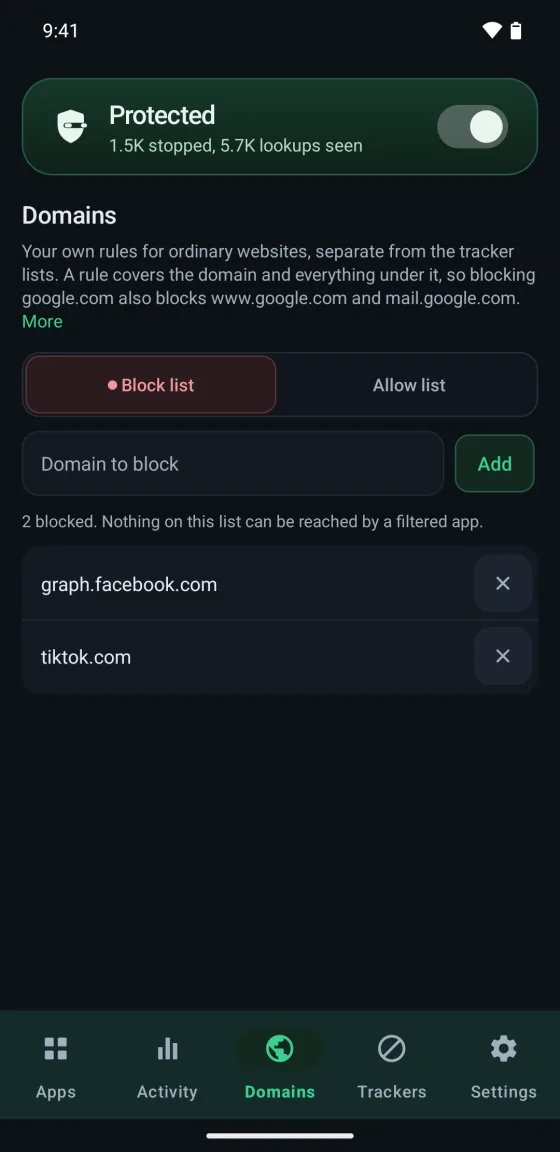
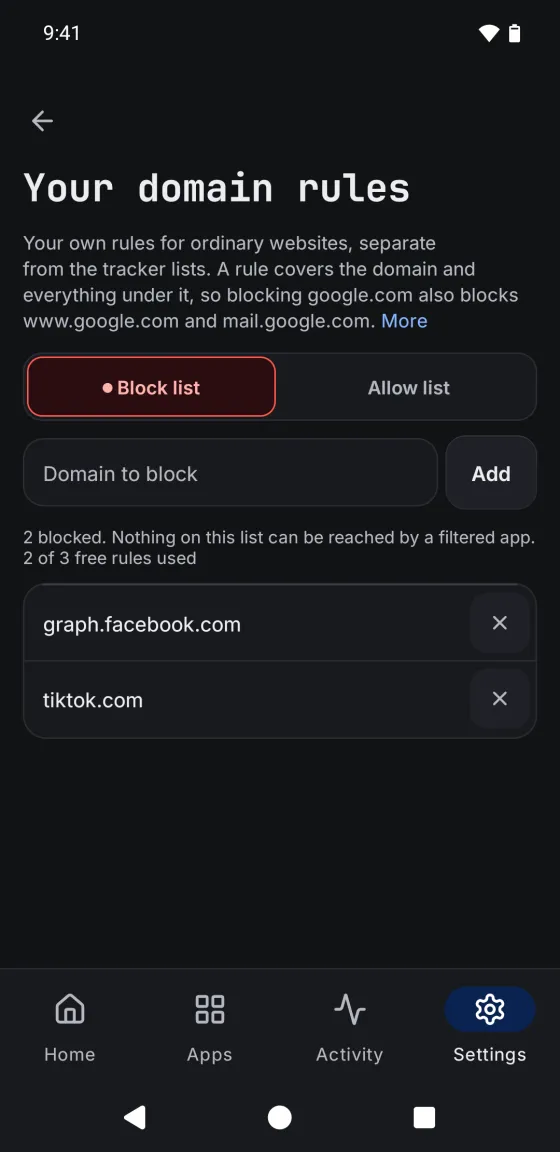
Guide for 1.32: Settings is the last button in the bar and holds the rest
Domains and Trackers are no longer tabs: they are Your domain rules and
Tracker lists in Settings, under Protection. Privacy and Help and feedback
are own pages, Bypass is called Not filtered, and the screens are retaken.

diff --git a/docs/guide.html b/docs/guide.html
@@ -26,21 +26,22 @@
     <article>
     <h2>What it does</h2>
     <p>Firewall runs a local VPN, but it does not carry your traffic. The tunnel claims one small, reserved range of addresses, and what comes through it is every name your phone looks up. A name that is blocked is answered with an address that goes nowhere, and the connection that follows is refused on the spot. A name that is allowed is resolved for real, encrypted if you asked for that. Your photos, video and downloads never enter the app, so nothing is slowed down and nothing keeps the processor awake.</p>
-    <p>Turn it on with the switch in the green card at the top. The first time, Android asks you to allow the VPN, and then whether Firewall may send notifications. On a new install every app starts Filtered, with tracker blocking and encrypted lookups on, so apps work as before with trackers stopped.</p>
+    <p>Turn it on with the switch in the card at the top of Home. The first time, Android asks you to allow the VPN, and then whether Firewall may send notifications. On a new install every app starts Filtered, with tracker blocking and encrypted lookups on, so apps work as before with trackers stopped.</p>
+    <p>The bar at the bottom has four buttons: Home, Apps, Activity and Settings. Back from any of them goes to Home first.</p>
     <h2>Apps: three modes</h2>
     <dl>
       <dt>Filtered</dt><dd>The app works and trackers are stopped. Its lookups go through the firewall, so encryption, tracker blocking and your domain rules all apply. New apps start here, unless you choose Blocked in Settings under New apps.</dd>
-      <dt>Bypass</dt><dd>The firewall leaves the app alone. Untouched, unfiltered, costs nothing. Use it for an app that has trouble.</dd>
+      <dt>Not filtered</dt><dd>The firewall leaves the app alone. Untouched, costs nothing. Use it for an app that has trouble.</dd>
       <dt>Blocked</dt><dd>The app cannot go online. When it tries, you get a notice with an Allow button, at most once every 12 hours for each app. Turn the notice off in Settings under New apps.</dd>
     </dl>
     <p>Changes take effect at once, but an app that is already running can hold on to what it opened earlier, so close and reopen it. Change all sets every app in the list you are looking at, and Undo puts each one back. Apps that went online lately are at the top. Tap an app's row for its own page: what it looked up, which tracker companies it reached, and whether they got through.</p>
-    <h2>Domains: your own rules</h2>
-    <p>A block list and an allow list for ordinary websites, separate from the tracker lists. A rule covers the domain and everything under it, so blocking google.com also blocks www.google.com and mail.google.com. The more specific rule wins, so you can block a domain and allow one name inside it. Rules apply at once, for every app set to Filtered.</p>
+    <h2>Your domain rules</h2>
+    <p>In Settings, under Protection. A block list and an allow list for ordinary websites, separate from the tracker lists. A rule covers the domain and everything under it, so blocking google.com also blocks www.google.com and mail.google.com. The more specific rule wins, so you can block a domain and allow one name inside it. Rules apply at once, for every app set to Filtered.</p>
     <p>Free: 3 rules, block and allow together. Pro: as many as you like, and wildcards. A star anywhere else, like <code>ads.*</code> or <code>*tracker*</code>, matches any text in its place.</p>
-    <h2>Trackers</h2>
-    <p>Every lookup is checked against known tracker, ad and fingerprinting domains. The bundled list works out of the box. With Pro you can add the community lists (HaGeZi, OISD, 1Hosts, Steven Black, AdGuard), refresh them, or add your own list by its https link: a hosts file, a plain list of domains, or an adblock style list. Lists are downloaded once and kept on the phone; the tab shows how many names they hold and the memory they take. Anything a list gets wrong can be undone on the Domains tab with an allow rule.</p>
+    <h2>Tracker lists</h2>
+    <p>In Settings, under Protection. Every lookup is checked against known tracker, ad and fingerprinting domains. The bundled list works out of the box. With Pro you can add the community lists (HaGeZi, OISD, 1Hosts, Steven Black, AdGuard), refresh them, or add your own list by its https link: a hosts file, a plain list of domains, or an adblock style list. Lists are downloaded once and kept on the phone; the page shows how many names they hold and the memory they take. Anything a list gets wrong can be undone with an allow rule in Your domain rules.</p>
     <h2>Encrypted lookups (DNS over HTTPS)</h2>
-    <p>Plain DNS shows your network every site you open. DNS over HTTPS encrypts the lookups. Google is free. With Pro you can pick Cloudflare, Quad9 or AdGuard, or type the address of any provider; Firewall tries a real lookup before it saves it. If the provider cannot be reached, Firewall falls back to the network's own resolver rather than leaving you with no answer.</p>
+    <p>In Settings, under Protection. Plain DNS shows your network every site you open. DNS over HTTPS encrypts the lookups. Google is free. With Pro you can pick Cloudflare, Quad9 or AdGuard, or type the address of any provider; Firewall tries a real lookup before it saves it. If the provider cannot be reached, Firewall falls back to the network's own resolver rather than leaving you with no answer.</p>
     <h2>Activity</h2>
     <p>Lookups seen, how many were stopped, what share were encrypted, and what did the stopping: a tracker list, your own rules, or a blocked app. The chart of the last 24 hours, the names blocked most often, and the full log, searchable, with the app behind every entry. Tap an entry to block that domain, or to always allow it. When the app itself was blocked, the entry offers to allow the app.</p>
     <p>Pro adds the chart of the last 7 days (30 days when you keep a longer history), your busiest hours of the day, the apps that look up the most, the tracker companies behind them, and Export CSV.</p>
@@ -49,20 +50,23 @@
       <dt>New apps</dt><dd>Tells you when a newly installed app goes online, so you can allow or block it from the notification. With App Lock on, the notification only opens the app.</dd>
       <dt>New tracker companies</dt><dd>Tells you when an app reaches a tracker company it never reached before. An app the firewall has not seen before gets a day to show its usual companies quietly.</dd>
     </dl>
-    <p>Turn them on in Settings, under Alerts.</p>
+    <p>Turn them on in Settings, under Alerts and weekly summary.</p>
     <h2>Daily mobile data cap (Pro)</h2>
-    <p>Open an app's page from the Apps tab and tap Daily mobile data cap. When the app has used that much mobile data today, its new connections are stopped on mobile data until midnight. Wi-Fi still works. Android counts the data, so Firewall needs Usage access; the app takes you to that screen. Caps need Android 10 or newer, and a cap cannot stop an app set to Bypass.</p>
+    <p>Open an app's page from the Apps tab and tap Daily mobile data cap. When the app has used that much mobile data today, its new connections are stopped on mobile data until midnight. Wi-Fi still works. Android counts the data, so Firewall needs Usage access; the app takes you to that screen. Caps need Android 10 or newer, and a cap cannot stop an app set to Not filtered.</p>
     <h2>History</h2>
     <p>The log is kept on your phone for 7 days. With Pro you can keep 30 or 90 days, in Settings under History. Longer history uses more storage.</p>
     <h2>Settings</h2>
+    <p>Settings is the last button in the bar. It lists the pages below in groups: Look, Protection (Encrypted lookups, Tracker lists, Your domain rules, New apps), Lock, alerts and backup, Pro, and App (Privacy, Help and feedback), then Support the developer and About.</p>
     <dl>
       <dt>Look</dt><dd>Follow the phone, Light, Dark or Black. Black uses true black grounds, which save power on OLED screens.</dd>
       <dt>New apps</dt><dd>Whether a newly installed app starts Filtered or Blocked, and whether a blocked app that tries to go online brings a notice with Allow.</dd>
       <dt>App Lock</dt><dd>A passcode before the app opens, so your rules cannot be changed by someone holding your phone. Letters, digits and symbols are all allowed.</dd>
       <dt>Weekly summary (Pro)</dt><dd>Once a week, a notification with what the firewall stopped and which tracker companies your apps went for.</dd>
       <dt>Backup and restore</dt><dd>Saves how each app is handled, your domain rules, which tracker lists you downloaded, and your tracker and encryption settings, as plain JSON. Your passcode, your activity and your counters are never included. Restore here or on another phone.</dd>
-      <dt>Privacy</dt><dd>Firewall's promises (no ads, no tracking, no analytics, no account, no AI), then every permission it asks for and why. Location, contacts, camera and microphone are never asked for.</dd>
-      <dt>Help</dt><dd>Links to this guide, the bug and feature form, and the privacy policy.</dd>
+      <dt>Privacy</dt><dd>Its own page. Firewall's promises (no ads, no tracking, no analytics, no account, no AI), then every permission it asks for and why. Location, contacts, camera and microphone are never asked for.</dd>
+      <dt>Help and feedback</dt><dd>Its own page, with links to this guide and to the form to report a bug or ask for a feature.</dd>
+      <dt>Support the developer</dt><dd>If Firewall helps you, you can support it: Buy me a coffee opens the page in your browser.</dd>
+      <dt>About</dt><dd>The version you have, and that Firewall has no server of its own.</dd>
     </dl>
     <h2>Always on</h2>
     <p>Firewall starts again after a reboot and after an app update. The Quick Settings tile switches it from the notification shade, and respects App Lock. The Firewall status widget shows whether protection is on and what was stopped today.</p>

diff --git a/docs/index.html b/docs/index.html
@@ -25,10 +25,11 @@
     <h1>Firewall</h1>
     <p class="sub">A firewall for Android that needs no root, with tracker blocking, DNS over HTTPS, and a log of everything your phone looks up. You decide, app by app, what the firewall does with it. Free, with an optional Pro.</p>
     <div class="shots">
-      <figure><img src="img/screen-apps.webp" alt="The app list with Demo Media set to Blocked and First Flow set to Filtered, each row offering Bypass, Filtered and Blocked." width="560" height="1152" loading="lazy"><figcaption>Apps: Bypass, Filtered or Blocked</figcaption></figure>
-      <figure><img src="img/screen-activity.webp" alt="5.7K lookups seen, 1.5K blocked, 98% encrypted, why lookups were stopped, and an hour by hour chart of the last day." width="560" height="1152" loading="lazy"><figcaption>Activity</figcaption></figure>
-      <figure><img src="img/screen-domains.webp" alt="A block list holding graph.facebook.com and tiktok.com." width="560" height="1152" loading="lazy"><figcaption>Domains: your own rules</figcaption></figure>
-      <figure><img src="img/screen-trackers.webp" alt="Tracker blocking on with 224,225 names loaded, DNS over HTTPS through AdGuard, and the memory the lists take." width="560" height="1152" loading="lazy"><figcaption>Trackers and encryption</figcaption></figure>
+      <figure><img src="img/screen-apps.webp" alt="The app list with lookups per app: Chrome, Calendar and Phosphor Filtered, Vinyl Blocked, and the bar at the bottom ending in Settings." width="560" height="1152" loading="lazy"><figcaption>Apps: Not filtered, Filtered or Blocked</figcaption></figure>
+      <figure><img src="img/screen-activity.webp" alt="3.7K lookups, 1.0K blocked, 98% encrypted, and why lookups were stopped: tracker lists, your rules and blocked apps." width="560" height="1152" loading="lazy"><figcaption>Activity</figcaption></figure>
+      <figure><img src="img/screen-settings.webp" alt="Settings: Look, then Protection with Encrypted lookups, Tracker lists, Your domain rules and New apps." width="560" height="1152" loading="lazy"><figcaption>Settings</figcaption></figure>
+      <figure><img src="img/screen-domains.webp" alt="Your domain rules: a block list holding graph.facebook.com and tiktok.com, 2 of 3 free rules used." width="560" height="1152" loading="lazy"><figcaption>Your domain rules</figcaption></figure>
+      <figure><img src="img/screen-trackers.webp" alt="Tracker lists: tracker blocking on with 129 names loaded, 848 blocked, and the memory the lists take." width="560" height="1152" loading="lazy"><figcaption>Tracker lists</figcaption></figure>
     </div>
     <div class="cta">
       <a class="btn main" href="guide.html">Read the guide</a>

diff --git a/docs/faq.html b/docs/faq.html
@@ -25,7 +25,7 @@
     <h1>Questions and fixes</h1>
     <article>
     <h2>An app or a site stopped working</h2>
-    <p>Open Activity and look for its lookups marked as stopped. If the app itself is blocked, tap the entry and pick Allow, or tap Allow on the notice. Otherwise pick always allow for that name, or set the app to Filtered or Bypass on the Apps tab. If a tracker list blocked a name the app needs, an allow rule on the Domains tab undoes it.</p>
+    <p>Open Activity and look for its lookups marked as stopped. If the app itself is blocked, tap the entry and pick Allow, or tap Allow on the notice. Otherwise pick always allow for that name, or set the app to Filtered or Not filtered on the Apps tab. If a tracker list blocked a name the app needs, an allow rule in Settings, Your domain rules undoes it.</p>
     <h2>I blocked an app, but it still works</h2>
     <p>Close it and open it again: an app that was already running can hold on to what it opened earlier. An app that connects straight to an address, without looking up a name, cannot be stopped by a firewall that works on names.</p>
     <h2>It says Private DNS is in the way</h2>

diff --git a/docs/report.html b/docs/report.html
@@ -37,9 +37,9 @@
     </ul>
     <h2>What helps</h2>
     <dl>
-      <dt>App version</dt><dd>Firewall, Settings, at the bottom.</dd>
+      <dt>App version</dt><dd>Firewall, Settings, About, at the bottom.</dd>
       <dt>Phone model and Android version</dt><dd>Android settings, About phone.</dd>
-      <dt>Which screen</dt><dd>Apps, Activity, Domains, Trackers, Settings, an app's page, the tile, the widget or a notification.</dd>
+      <dt>Which screen</dt><dd>Home, Apps, Activity, a Settings page such as Tracker lists or Your domain rules, an app's page, the tile, the widget or a notification.</dd>
       <dt>The app and the domain</dt><dd>Which app misbehaves and, from Activity, the name it looked up.</dd>
       <dt>Steps</dt><dd>What you did, one step per line.</dd>
     </dl>

diff --git a/build.py b/build.py
@@ -53,10 +53,11 @@ INDEX = f'''    <p class="kicker">User guide</p>
     <h1>Firewall</h1>
     <p class="sub">A firewall for Android that needs no root, with tracker blocking, DNS over HTTPS, and a log of everything your phone looks up. You decide, app by app, what the firewall does with it. Free, with an optional Pro.</p>
     <div class="shots">
-      {shot("apps", "The app list with Demo Media set to Blocked and First Flow set to Filtered, each row offering Bypass, Filtered and Blocked.", "Apps: Bypass, Filtered or Blocked")}
-      {shot("activity", "5.7K lookups seen, 1.5K blocked, 98% encrypted, why lookups were stopped, and an hour by hour chart of the last day.", "Activity")}
-      {shot("domains", "A block list holding graph.facebook.com and tiktok.com.", "Domains: your own rules")}
-      {shot("trackers", "Tracker blocking on with 224,225 names loaded, DNS over HTTPS through AdGuard, and the memory the lists take.", "Trackers and encryption")}
+      {shot("apps", "The app list with lookups per app: Chrome, Calendar and Phosphor Filtered, Vinyl Blocked, and the bar at the bottom ending in Settings.", "Apps: Not filtered, Filtered or Blocked")}
+      {shot("activity", "3.7K lookups, 1.0K blocked, 98% encrypted, and why lookups were stopped: tracker lists, your rules and blocked apps.", "Activity")}
+      {shot("settings", "Settings: Look, then Protection with Encrypted lookups, Tracker lists, Your domain rules and New apps.", "Settings")}
+      {shot("domains", "Your domain rules: a block list holding graph.facebook.com and tiktok.com, 2 of 3 free rules used.", "Your domain rules")}
+      {shot("trackers", "Tracker lists: tracker blocking on with 129 names loaded, 848 blocked, and the memory the lists take.", "Tracker lists")}
     </div>
     <div class="cta">
       <a class="btn main" href="guide.html">Read the guide</a>
@@ -68,21 +69,22 @@ GUIDE = '''    <p class="kicker">Guide</p>
     <article>
     <h2>What it does</h2>
     <p>Firewall runs a local VPN, but it does not carry your traffic. The tunnel claims one small, reserved range of addresses, and what comes through it is every name your phone looks up. A name that is blocked is answered with an address that goes nowhere, and the connection that follows is refused on the spot. A name that is allowed is resolved for real, encrypted if you asked for that. Your photos, video and downloads never enter the app, so nothing is slowed down and nothing keeps the processor awake.</p>
-    <p>Turn it on with the switch in the green card at the top. The first time, Android asks you to allow the VPN, and then whether Firewall may send notifications. On a new install every app starts Filtered, with tracker blocking and encrypted lookups on, so apps work as before with trackers stopped.</p>
+    <p>Turn it on with the switch in the card at the top of Home. The first time, Android asks you to allow the VPN, and then whether Firewall may send notifications. On a new install every app starts Filtered, with tracker blocking and encrypted lookups on, so apps work as before with trackers stopped.</p>
+    <p>The bar at the bottom has four buttons: Home, Apps, Activity and Settings. Back from any of them goes to Home first.</p>
     <h2>Apps: three modes</h2>
     <dl>
       <dt>Filtered</dt><dd>The app works and trackers are stopped. Its lookups go through the firewall, so encryption, tracker blocking and your domain rules all apply. New apps start here, unless you choose Blocked in Settings under New apps.</dd>
-      <dt>Bypass</dt><dd>The firewall leaves the app alone. Untouched, unfiltered, costs nothing. Use it for an app that has trouble.</dd>
+      <dt>Not filtered</dt><dd>The firewall leaves the app alone. Untouched, costs nothing. Use it for an app that has trouble.</dd>
       <dt>Blocked</dt><dd>The app cannot go online. When it tries, you get a notice with an Allow button, at most once every 12 hours for each app. Turn the notice off in Settings under New apps.</dd>
     </dl>
     <p>Changes take effect at once, but an app that is already running can hold on to what it opened earlier, so close and reopen it. Change all sets every app in the list you are looking at, and Undo puts each one back. Apps that went online lately are at the top. Tap an app's row for its own page: what it looked up, which tracker companies it reached, and whether they got through.</p>
-    <h2>Domains: your own rules</h2>
-    <p>A block list and an allow list for ordinary websites, separate from the tracker lists. A rule covers the domain and everything under it, so blocking google.com also blocks www.google.com and mail.google.com. The more specific rule wins, so you can block a domain and allow one name inside it. Rules apply at once, for every app set to Filtered.</p>
+    <h2>Your domain rules</h2>
+    <p>In Settings, under Protection. A block list and an allow list for ordinary websites, separate from the tracker lists. A rule covers the domain and everything under it, so blocking google.com also blocks www.google.com and mail.google.com. The more specific rule wins, so you can block a domain and allow one name inside it. Rules apply at once, for every app set to Filtered.</p>
     <p>Free: 3 rules, block and allow together. Pro: as many as you like, and wildcards. A star anywhere else, like <code>ads.*</code> or <code>*tracker*</code>, matches any text in its place.</p>
-    <h2>Trackers</h2>
-    <p>Every lookup is checked against known tracker, ad and fingerprinting domains. The bundled list works out of the box. With Pro you can add the community lists (HaGeZi, OISD, 1Hosts, Steven Black, AdGuard), refresh them, or add your own list by its https link: a hosts file, a plain list of domains, or an adblock style list. Lists are downloaded once and kept on the phone; the tab shows how many names they hold and the memory they take. Anything a list gets wrong can be undone on the Domains tab with an allow rule.</p>
+    <h2>Tracker lists</h2>
+    <p>In Settings, under Protection. Every lookup is checked against known tracker, ad and fingerprinting domains. The bundled list works out of the box. With Pro you can add the community lists (HaGeZi, OISD, 1Hosts, Steven Black, AdGuard), refresh them, or add your own list by its https link: a hosts file, a plain list of domains, or an adblock style list. Lists are downloaded once and kept on the phone; the page shows how many names they hold and the memory they take. Anything a list gets wrong can be undone with an allow rule in Your domain rules.</p>
     <h2>Encrypted lookups (DNS over HTTPS)</h2>
-    <p>Plain DNS shows your network every site you open. DNS over HTTPS encrypts the lookups. Google is free. With Pro you can pick Cloudflare, Quad9 or AdGuard, or type the address of any provider; Firewall tries a real lookup before it saves it. If the provider cannot be reached, Firewall falls back to the network's own resolver rather than leaving you with no answer.</p>
+    <p>In Settings, under Protection. Plain DNS shows your network every site you open. DNS over HTTPS encrypts the lookups. Google is free. With Pro you can pick Cloudflare, Quad9 or AdGuard, or type the address of any provider; Firewall tries a real lookup before it saves it. If the provider cannot be reached, Firewall falls back to the network's own resolver rather than leaving you with no answer.</p>
     <h2>Activity</h2>
     <p>Lookups seen, how many were stopped, what share were encrypted, and what did the stopping: a tracker list, your own rules, or a blocked app. The chart of the last 24 hours, the names blocked most often, and the full log, searchable, with the app behind every entry. Tap an entry to block that domain, or to always allow it. When the app itself was blocked, the entry offers to allow the app.</p>
     <p>Pro adds the chart of the last 7 days (30 days when you keep a longer history), your busiest hours of the day, the apps that look up the most, the tracker companies behind them, and Export CSV.</p>
@@ -91,20 +93,23 @@ GUIDE = '''    <p class="kicker">Guide</p>
       <dt>New apps</dt><dd>Tells you when a newly installed app goes online, so you can allow or block it from the notification. With App Lock on, the notification only opens the app.</dd>
       <dt>New tracker companies</dt><dd>Tells you when an app reaches a tracker company it never reached before. An app the firewall has not seen before gets a day to show its usual companies quietly.</dd>
     </dl>
-    <p>Turn them on in Settings, under Alerts.</p>
+    <p>Turn them on in Settings, under Alerts and weekly summary.</p>
     <h2>Daily mobile data cap (Pro)</h2>
-    <p>Open an app's page from the Apps tab and tap Daily mobile data cap. When the app has used that much mobile data today, its new connections are stopped on mobile data until midnight. Wi-Fi still works. Android counts the data, so Firewall needs Usage access; the app takes you to that screen. Caps need Android 10 or newer, and a cap cannot stop an app set to Bypass.</p>
+    <p>Open an app's page from the Apps tab and tap Daily mobile data cap. When the app has used that much mobile data today, its new connections are stopped on mobile data until midnight. Wi-Fi still works. Android counts the data, so Firewall needs Usage access; the app takes you to that screen. Caps need Android 10 or newer, and a cap cannot stop an app set to Not filtered.</p>
     <h2>History</h2>
     <p>The log is kept on your phone for 7 days. With Pro you can keep 30 or 90 days, in Settings under History. Longer history uses more storage.</p>
     <h2>Settings</h2>
+    <p>Settings is the last button in the bar. It lists the pages below in groups: Look, Protection (Encrypted lookups, Tracker lists, Your domain rules, New apps), Lock, alerts and backup, Pro, and App (Privacy, Help and feedback), then Support the developer and About.</p>
     <dl>
       <dt>Look</dt><dd>Follow the phone, Light, Dark or Black. Black uses true black grounds, which save power on OLED screens.</dd>
       <dt>New apps</dt><dd>Whether a newly installed app starts Filtered or Blocked, and whether a blocked app that tries to go online brings a notice with Allow.</dd>
       <dt>App Lock</dt><dd>A passcode before the app opens, so your rules cannot be changed by someone holding your phone. Letters, digits and symbols are all allowed.</dd>
       <dt>Weekly summary (Pro)</dt><dd>Once a week, a notification with what the firewall stopped and which tracker companies your apps went for.</dd>
       <dt>Backup and restore</dt><dd>Saves how each app is handled, your domain rules, which tracker lists you downloaded, and your tracker and encryption settings, as plain JSON. Your passcode, your activity and your counters are never included. Restore here or on another phone.</dd>
-      <dt>Privacy</dt><dd>Firewall's promises (no ads, no tracking, no analytics, no account, no AI), then every permission it asks for and why. Location, contacts, camera and microphone are never asked for.</dd>
-      <dt>Help</dt><dd>Links to this guide, the bug and feature form, and the privacy policy.</dd>
+      <dt>Privacy</dt><dd>Its own page. Firewall's promises (no ads, no tracking, no analytics, no account, no AI), then every permission it asks for and why. Location, contacts, camera and microphone are never asked for.</dd>
+      <dt>Help and feedback</dt><dd>Its own page, with links to this guide and to the form to report a bug or ask for a feature.</dd>
+      <dt>Support the developer</dt><dd>If Firewall helps you, you can support it: Buy me a coffee opens the page in your browser.</dd>
+      <dt>About</dt><dd>The version you have, and that Firewall has no server of its own.</dd>
     </dl>
     <h2>Always on</h2>
     <p>Firewall starts again after a reboot and after an app update. The Quick Settings tile switches it from the notification shade, and respects App Lock. The Firewall status widget shows whether protection is on and what was stopped today.</p>
@@ -116,7 +121,7 @@ FAQ = '''    <p class="kicker">Questions</p>
     <h1>Questions and fixes</h1>
     <article>
     <h2>An app or a site stopped working</h2>
-    <p>Open Activity and look for its lookups marked as stopped. If the app itself is blocked, tap the entry and pick Allow, or tap Allow on the notice. Otherwise pick always allow for that name, or set the app to Filtered or Bypass on the Apps tab. If a tracker list blocked a name the app needs, an allow rule on the Domains tab undoes it.</p>
+    <p>Open Activity and look for its lookups marked as stopped. If the app itself is blocked, tap the entry and pick Allow, or tap Allow on the notice. Otherwise pick always allow for that name, or set the app to Filtered or Not filtered on the Apps tab. If a tracker list blocked a name the app needs, an allow rule in Settings, Your domain rules undoes it.</p>
     <h2>I blocked an app, but it still works</h2>
     <p>Close it and open it again: an app that was already running can hold on to what it opened earlier. An app that connects straight to an address, without looking up a name, cannot be stopped by a firewall that works on names.</p>
     <h2>It says Private DNS is in the way</h2>
@@ -149,9 +154,9 @@ REPORT = f'''    <p class="kicker">Report</p>
     </ul>
     <h2>What helps</h2>
     <dl>
-      <dt>App version</dt><dd>Firewall, Settings, at the bottom.</dd>
+      <dt>App version</dt><dd>Firewall, Settings, About, at the bottom.</dd>
       <dt>Phone model and Android version</dt><dd>Android settings, About phone.</dd>
-      <dt>Which screen</dt><dd>Apps, Activity, Domains, Trackers, Settings, an app's page, the tile, the widget or a notification.</dd>
+      <dt>Which screen</dt><dd>Home, Apps, Activity, a Settings page such as Tracker lists or Your domain rules, an app's page, the tile, the widget or a notification.</dd>
       <dt>The app and the domain</dt><dd>Which app misbehaves and, from Activity, the name it looked up.</dd>
       <dt>Steps</dt><dd>What you did, one step per line.</dd>
     </dl>

diff --git a/README.md b/README.md
@@ -14,7 +14,7 @@
 </p>
 
 <p align="center">
-  <img src="docs/img/screen-apps.webp" width="280" alt="The app list with Demo Media set to Blocked and First Flow set to Filtered, each row offering Bypass, Filtered and Blocked.">
+  <img src="docs/img/screen-apps.webp" width="280" alt="The app list with lookups per app: Chrome, Calendar and Phosphor Filtered, Vinyl Blocked, and the bar at the bottom ending in Settings.">
 </p>
 
 This repo is the public home for Firewall users: the user guide, bug reports and feature requests. The app's source is not here.
@@ -23,8 +23,8 @@ This repo is the public home for Firewall users: the user guide, bug reports and
 
 1. Install Firewall from Google Play.
 2. Turn it on with the switch at the top and allow the VPN when Android asks.
-3. On the Apps tab, set each app to Bypass, Filtered or Blocked.
-4. Open Activity to see what your phone looks up and what was stopped.
+3. On the Apps tab, set each app to Not filtered, Filtered or Blocked.
+4. Open Activity to see what your phone looks up and what was stopped. Settings, the last button in the bar, holds tracker lists, your domain rules and the rest.
 
 Read the full [user guide](https://zanoshky.github.io/firewall-app/guide.html) and the [questions and fixes](https://zanoshky.github.io/firewall-app/faq.html).
 
